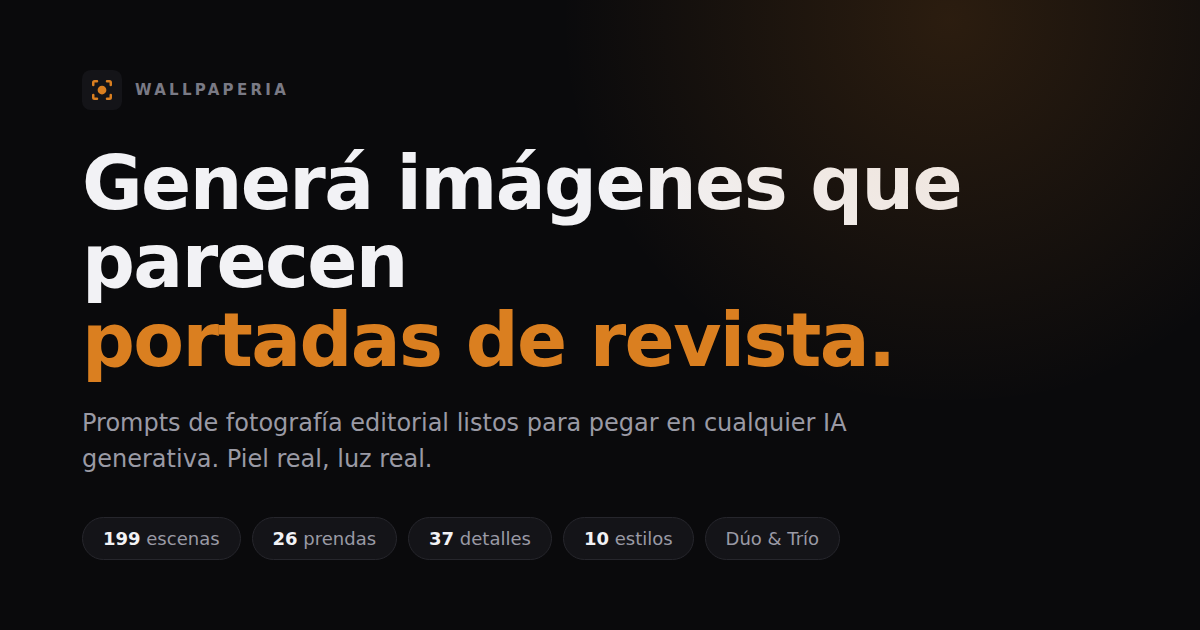
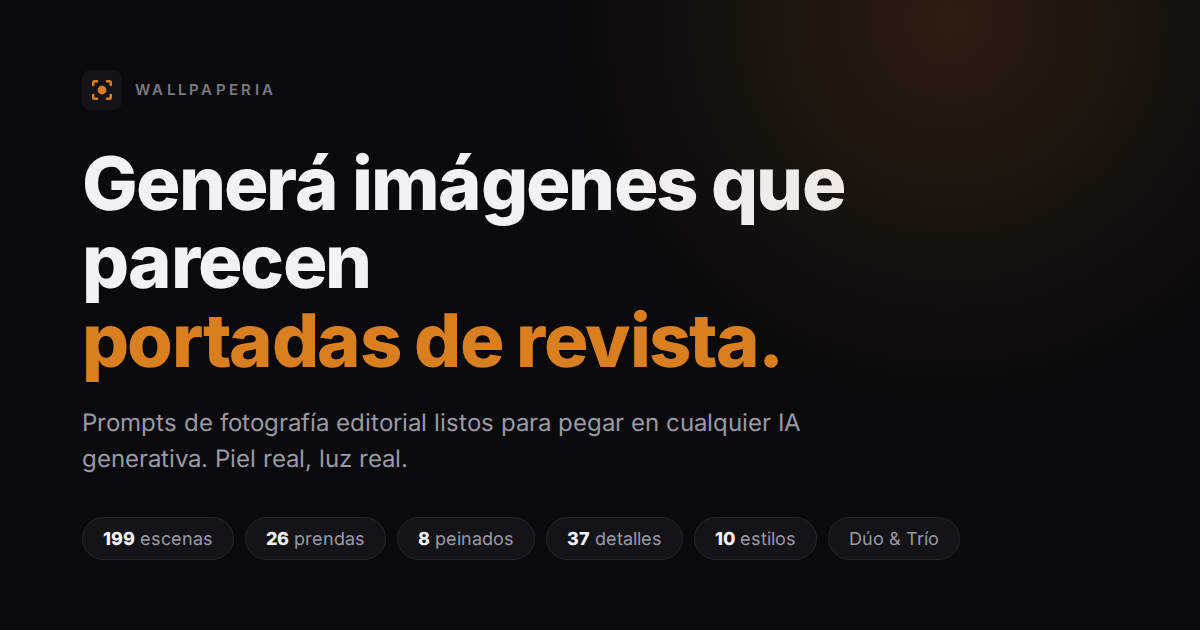
Un nombre en todas arma todo el plan; Planes sin promesas sin cumplir; cifras con peinados
- /api/prompt?todas=1 devuelve la v1 Solo de cada escena que el plan
  alcanza, en un pedido. Un nombre en todas lo usa: antes armaba sólo las
  escenas ya abiertas en ese navegador y alguien nuevo recibía 0. El acceso
  sale de resolveTier() y canAccess(); si la API no lo conoce, la página
  vuelve a lo de antes. También en el servidor de desarrollo.
- Planes: fuera 'Nuevas escenas primero', 'Acceso anticipado' y 'Voto en
  roadmap', que el sitio no da. En su lugar, estilos, prendas y temas VIP.
- Portada, roadmap e imagen de compartir cuentan los 8 peinados. og.png
  regenerada con Inter: la anterior había salido con la fuente de reemplazo.

Claude-Session: https://claude.ai/code/session_01FB3Zucef8WcoPiMRQSxZcT

diff --git a/index.html b/index.html
@@ -20,7 +20,7 @@
 <meta property="og:image" content="https://wallpaperia.github.io/Promt/assets/og.png">
 <meta property="og:image:width" content="1200">
 <meta property="og:image:height" content="630">
-<meta property="og:image:alt" content="Wallpaperia — 199 escenas, 26 prendas, 37 detalles, 10 estilos.">
+<meta property="og:image:alt" content="Wallpaperia — 199 escenas, 26 prendas, 8 peinados, 37 detalles, 10 estilos.">
 <meta name="twitter:card" content="summary_large_image">
 <script>
   // Mayoría de edad. Se decide acá, antes de pintar nada: si se hiciera al
@@ -1636,6 +1636,7 @@
           <li><strong data-cuenta="categorias">199</strong><span>escenas</span></li>
           <li><strong data-cuenta="estilos">10</strong><span>estilos</span></li>
           <li><strong data-cuenta="prendas">26</strong><span>prendas</span></li>
+          <li><strong data-cuenta="peinados">8</strong><span>peinados</span></li>
           <li><strong data-cuenta="detalles">37</strong><span>detalles</span></li>
           <li><strong data-cuenta="formatos">6</strong><span>formatos</span></li>
         </ul>
@@ -1704,7 +1705,7 @@
           <li class="ok"><svg class="i" aria-hidden="true"><use href="#i-check"/></svg>Todas las Casual y Editorial</li>
           <li class="ok"><svg class="i" aria-hidden="true"><use href="#i-check"/></svg>Todas las escenas Hot</li>
           <li class="ok"><svg class="i" aria-hidden="true"><use href="#i-check"/></svg>Sin límites de uso</li>
-          <li class="ok"><svg class="i" aria-hidden="true"><use href="#i-check"/></svg>Nuevas escenas primero</li>
+          <li class="ok"><svg class="i" aria-hidden="true"><use href="#i-check"/></svg>Estilos y prendas Premium</li>
         </ul>
         <a class="lp-plan-cta premium" href="https://www.patreon.com/c/WallpaperIA" target="_blank" rel="noopener">Suscribirse <svg class="i" aria-hidden="true"><use href="#i-arrow-right"/></svg></a>
       </div>
@@ -1715,8 +1716,8 @@
         <ul class="lp-plan-items">
           <li class="ok"><svg class="i" aria-hidden="true"><use href="#i-check"/></svg>Todo lo de Premium</li>
           <li class="ok"><svg class="i" aria-hidden="true"><use href="#i-check"/></svg>Todas las escenas XXX</li>
-          <li class="ok"><svg class="i" aria-hidden="true"><use href="#i-check"/></svg>Acceso anticipado</li>
-          <li class="ok"><svg class="i" aria-hidden="true"><use href="#i-check"/></svg>Voto en roadmap</li>
+          <li class="ok"><svg class="i" aria-hidden="true"><use href="#i-check"/></svg>Todos los estilos y prendas</li>
+          <li class="ok"><svg class="i" aria-hidden="true"><use href="#i-check"/></svg>Temas VIP</li>
         </ul>
         <a class="lp-plan-cta full" href="https://www.patreon.com/c/WallpaperIA" target="_blank" rel="noopener">Acceso total <svg class="i" aria-hidden="true"><use href="#i-arrow-right"/></svg></a>
       </div>
@@ -1728,7 +1729,7 @@
         <div class="lp-road-dot"><svg class="i" aria-hidden="true"><use href="#i-check"/></svg></div>
         <div class="lp-road-info">
           <strong>v1 · Disponible ahora <span class="lp-road-tag done">LIVE</span></strong>
-          <span><strong data-cuenta="categorias">199</strong> escenas · Dúo &amp; Trío · <strong data-cuenta="estilos">10</strong> estilos · <strong data-cuenta="prendas">26</strong> prendas · <strong data-cuenta="detalles">37</strong> detalles de fondo, luz y cámara · <strong data-cuenta="formatos">6</strong> formatos · Tiers casual / editorial / hot / xxx · Editor de prompts · Favoritas · Historial</span>
+          <span><strong data-cuenta="categorias">199</strong> escenas · Dúo &amp; Trío · <strong data-cuenta="estilos">10</strong> estilos · <strong data-cuenta="prendas">26</strong> prendas · <strong data-cuenta="peinados">8</strong> peinados · <strong data-cuenta="detalles">37</strong> detalles de fondo, luz y cámara · <strong data-cuenta="formatos">6</strong> formatos · Tiers casual / editorial / hot / xxx · Editor de prompts · Favoritas · Historial</span>
         </div>
       </div>
       <div class="lp-road-item soon">
@@ -2590,6 +2591,8 @@ function actualizarCifrasPortada(){
     estilos:    typeof STYLES  !== 'undefined' ? STYLES.length : null,
     // "Original" no es una prenda: es no cambiarla.
     prendas:    typeof OUTFITS !== 'undefined' ? OUTFITS.filter(o=>o.instruction).length : null,
+    // Igual: "Original" no es un peinado.
+    peinados:   PEINADOS.length ? PEINADOS.filter(h=>h.instruction).length : null,
     formatos:   typeof FORMATS !== 'undefined' ? FORMATS.length : null,
     detalles:   typeof DETAILS !== 'undefined' ? DETAILS.length : null,
   };
@@ -4099,8 +4102,10 @@ updateStats();
     if(!additions) return promptText;
     return promptText.replace(/\.$/, ', '+additions+'.');
   }
-  function _gBuildPrompt(cat, name){
-    let t = cat.prompt(name);
+  // cuerpo: la v1 Solo que mandó /api/prompt?todas=1, para las escenas que
+  // todavía no se abrieron en este navegador (ésas no tienen cat.prompt).
+  function _gBuildPrompt(cat, name, cuerpo){
+    let t = typeof cat.prompt === 'function' ? cat.prompt(name) : renderPromptTemplate(cuerpo, [name]);
     const styleId = localStorage.getItem(KEY_STYLE)||'playboy';
     const outfitId = localStorage.getItem(KEY_OUTFIT)||'';
     const formatId = localStorage.getItem(KEY_FORMAT)||'16-9';
@@ -4208,15 +4213,42 @@ updateStats();
       if(detailIds.size>0) mk(detailIds.size+' extras', true); else mk('Sin extras', false);
     }
 
-    function generate(){
+    /**
+     * La v1 Solo de todo lo que el plan alcanza, pedida una vez por visita.
+     * Antes se armaban sólo las escenas ya abiertas en este navegador, porque
+     * los prompts se bajan de a uno al abrir cada escena: alguien nuevo que lo
+     * probaba recibía 0. null si el pedido falla (por ejemplo, si la API
+     * todavía no tiene ?todas=1): entonces se usa lo que ya está bajado.
+     */
+    let _aaCuerpos = null;
+    async function traerCuerpos(){
+      if(_aaCuerpos) return _aaCuerpos;
+      try{
+        const token = localStorage.getItem(KEY_SESSION);
+        const r = await fetch(API_BASE+'/api/prompt?todas=1', { headers: token ? {'Authorization':'Bearer '+token} : {} });
+        if(!r.ok) return null;
+        const d = await r.json();
+        if(!d || typeof d.prompts !== 'object') return null;
+        _aaCuerpos = d.prompts;
+        return _aaCuerpos;
+      }catch(e){ return null; }
+    }
+
+    async function generate(){
       const name = document.getElementById('aa-name').value.trim();
       if(!name){ document.getElementById('aa-name').focus(); return; }
-      _aaGeneratedList = CATEGORIES.filter(c=>c.ready && c.prompt).map(cat=>{
-        let accessible = canAccessCat(cat);
-        let promptText = accessible ? _gBuildPrompt(cat, name) : '';
-        return { cat, promptText, accessible };
-      });
-      document.getElementById('aa-sub').textContent = _aaGeneratedList.filter(x=>x.accessible).length + ' prompts generados para ' + name;
+      const btnGen = document.getElementById('aa-gen');
+      const sub = document.getElementById('aa-sub');
+      btnGen.disabled = true;
+      sub.textContent = 'Armando los prompts…';
+      const cuerpos = await traerCuerpos() || {};
+      btnGen.disabled = false;
+      // Sólo las que se pueden armar: las abiertas en esta visita, más las que
+      // mandó el servidor. Lo que el plan no alcanza no llega en cuerpos.
+      _aaGeneratedList = CATEGORIES
+        .filter(c=>c.ready && canAccessCat(c) && (typeof c.prompt === 'function' || typeof cuerpos[c.id] === 'string'))
+        .map(cat=>({ cat, promptText: _gBuildPrompt(cat, name, cuerpos[cat.id]), accessible: true }));
+      sub.textContent = _aaGeneratedList.length + ' prompts generados para ' + name;
       document.getElementById('aa-footer').style.display = 'flex';
       renderResults();
     }

diff --git a/api/prompt.js b/api/prompt.js
@@ -27,6 +27,44 @@ async function getCategories() {
   return catalogCache;
 }
 
+/**
+ * GET /api/prompt?todas=1 — la versión Solo v1 de cada escena que el plan
+ * alcanza, en un solo pedido.
+ *
+ * La usa "Un nombre en todas". Antes armaba sólo las escenas que ya se
+ * habían abierto en ese navegador, porque los prompts se bajan de a uno al
+ * abrir cada escena: alguien nuevo que lo probaba recibía 0. Pedirlas de a
+ * una serían ~200 pedidos.
+ *
+ * Sólo la v1 Solo, que es lo único que esa función usa: así pesa unos
+ * 350 KB y no los 2 MB de las seis variantes. El acceso se decide igual que
+ * en el pedido de a una: resolveTier() y canAccess(), nunca lo que diga el
+ * cliente.
+ */
+async function todas(req, res) {
+  const { tier, admin } = await resolverSesion(supabase, bearer(req));
+  const categories = await getCategories();
+  const permitidas = new Set(
+    categories
+      .filter((c) => (c.status === 'publicada' || admin) && canAccess(c, tier).ok)
+      .map((c) => c.id)
+  );
+
+  // Se traen todas las v1 Solo y se filtra acá: con .in() de ~200 ids la
+  // dirección del pedido a Supabase se haría muy larga.
+  const { data: rows, error } = await supabase
+    .from('prompt_bodies')
+    .select('cat_id, body')
+    .eq('variant', 'prompt');
+  if (error) throw new Error(`prompts: ${error.message}`);
+  // Mismo tope que el catálogo: PostgREST corta en 1000 filas.
+  if (rows.length >= 1000) throw new Error('prompts truncados: hay que paginar');
+
+  const prompts = {};
+  for (const r of rows) if (permitidas.has(r.cat_id)) prompts[r.cat_id] = r.body;
+  return res.status(200).json({ tier, prompts });
+}
+
 export default async function handler(req, res) {
   applyCors(req, res, 'GET, OPTIONS');
   // Respuesta distinta por usuario: que no la cachee ningún proxy.
@@ -34,6 +72,15 @@ export default async function handler(req, res) {
 
   if (req.method === 'OPTIONS') return res.status(200).end();
   if (req.method !== 'GET') return res.status(405).json({ error: 'method_not_allowed' });
+
+  if (req.query.todas === '1') {
+    try {
+      return await todas(req, res);
+    } catch (e) {
+      console.error('GET /api/prompt?todas=1', e);
+      return res.status(500).json({ error: 'server_error' });
+    }
+  }
 
   const id = typeof req.query.id === 'string' ? req.query.id.trim() : '';
   if (!id || id.length > 100) return res.status(400).json({ error: 'bad_request' });

diff --git a/scripts/og.html b/scripts/og.html
@@ -30,6 +30,7 @@ p{margin-top:26px;font-size:24px;line-height:1.5;color:#9A9AA5;max-width:820px}
 <div class="chips">
   <div class="chip"><b>{{escenas}}</b> escenas</div>
   <div class="chip"><b>{{prendas}}</b> prendas</div>
+  <div class="chip"><b>{{peinados}}</b> peinados</div>
   <div class="chip"><b>{{detalles}}</b> detalles</div>
   <div class="chip"><b>{{estilos}}</b> estilos</div>
   <div class="chip">Dúo &amp; Trío</div>

diff --git a/CLAUDE.md b/CLAUDE.md
@@ -323,8 +323,14 @@ Después: `npm run build:catalog && npm run verify && npm run seed`.
   `overflow:hidden`, puesto para animar el Ocultar, y cortaba la escena
   abierta: en el celular, con Prenda desplegada, las prendas de abajo
   quedaban tapadas. La animación fija el alto real en línea antes de cerrar.
-- **"Un nombre en todas" sólo incluye las escenas ya abiertas** en ese
-  navegador: los prompts se bajan de a uno al abrir cada escena. Pendiente.
+- **"Un nombre en todas" pide `GET /api/prompt?todas=1`**: la v1 Solo de
+  cada escena que el plan alcanza, en un solo pedido (~350 KB). Antes sólo
+  armaba las escenas ya abiertas en ese navegador y alguien nuevo recibía 0.
+  El acceso se decide con `resolveTier()` y `canAccess()`, igual que el pedido
+  de a una. Si la API no lo conoce, la página vuelve a lo de antes.
+- **`assets/og.png` tiene que salir con la fuente Inter.** `scripts/og.mjs`
+  la toma de Google Fonts; sin conexión a eso usa la de reemplazo y la imagen
+  queda con otra letra. Pasó con la que hubo hasta el 01/10/2026.
 - **El Formato cambia la línea `16:9 4K ultra-sharp resolution.`** del
   prompt. Hasta el 01/10/2026, si el prompt no la tenía, elegir otro formato
   no hacía nada; pasaba en varias escenas, entre ellas dos de las gratis.
